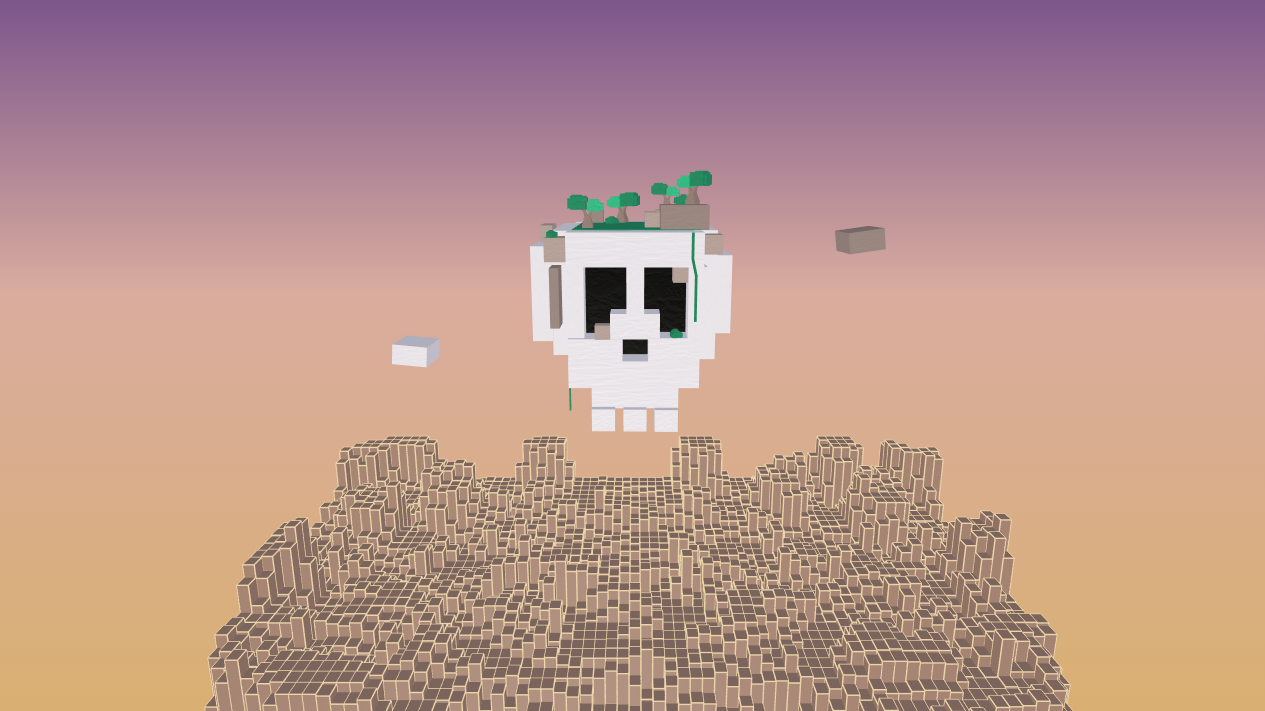
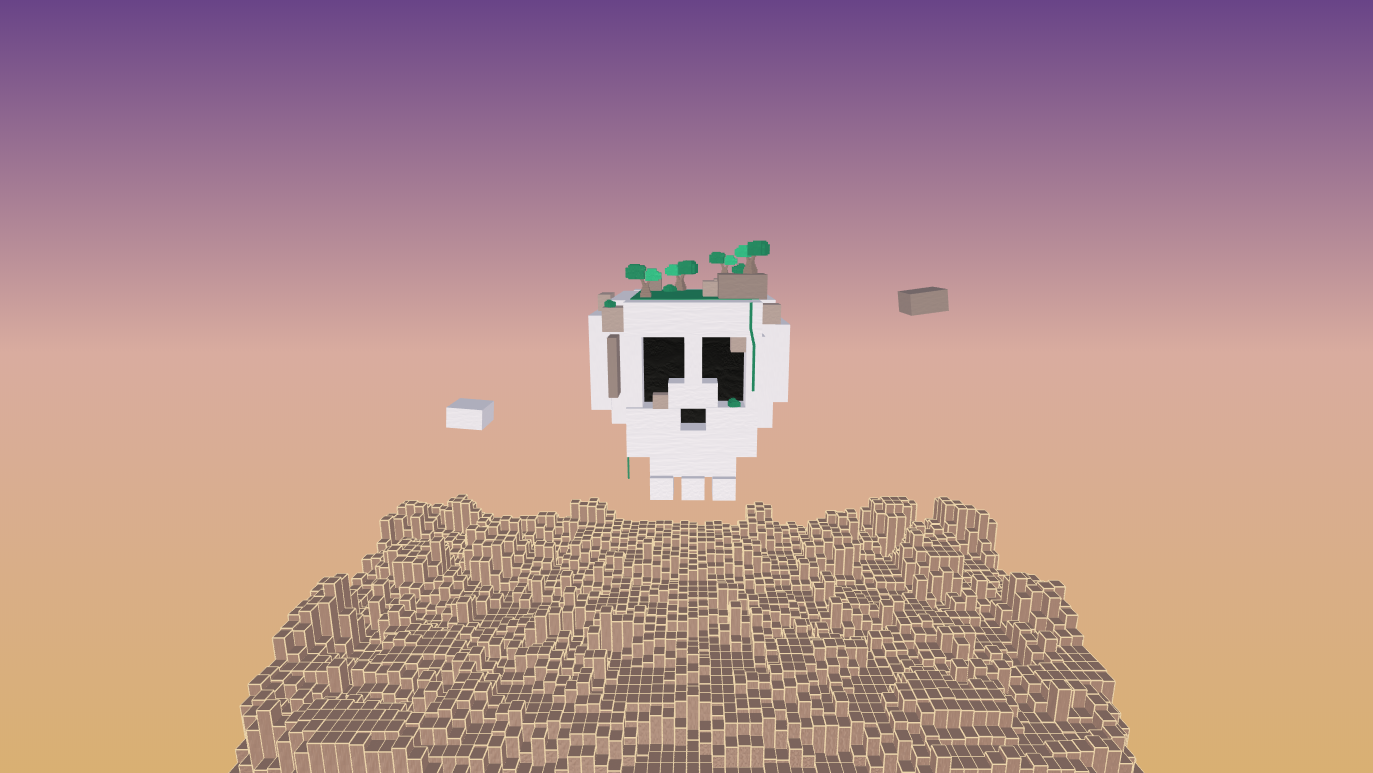
cambiata dimensione cubi e conformazione terreno; nuovo screenshot

Changed region(s): [[0.1542, 0.2475, 0.8632, 1.0], [0.6474, 0.3094, 0.7091, 0.4332], [0.3083, 0.4641, 0.37, 0.557]]

diff --git a/index.html b/index.html
@@ -198,14 +198,14 @@
 				var xImg = img.width;
 				var yImg = img.height;
 				
-				var terrain_geometry = new THREE.BoxGeometry( 1, 1, 1 );
-				var terrain_material = new THREE.MeshPhongMaterial( { color: "#80543d"} );
+				var terrain_geometry = new THREE.BoxGeometry( 1.5, 1.5, 1.5 );
+				var terrain_material = new THREE.MeshPhongMaterial( { bumpMap: island_texture, bumpScale: 0.5, color: "#80543d"} );
 				//definisco geometria e materiale anche per gli spigoli
 				var terrain_edges_geo = new THREE.EdgesGeometry( terrain_geometry ); 
 				var terrain_edges_mat = new THREE.LineBasicMaterial( { color: "#d9b071", linewidth: 2 } );
 				
 				var terrain_group = new THREE.Object3D(); //oggetto a cui aggiungerò tutti i cubi che compongono il terreno
-				terrain_group.position.set( -img.width/2, -38, -img.height-8 );
+				terrain_group.position.set( -img.width*1.5/2, -55, -img.height*1.5-24 );
 
 				scene.add( terrain_group );
 
@@ -216,9 +216,9 @@
 					for( j = 0; j < xImg; j++ ){ //scorro colonne
 
 						var terrain_cube = new THREE.Mesh( terrain_geometry, terrain_material );
-						terrain_cube.matrix.makeTranslation( j+1, data[k]/2, i ); //traslo cubo in su di data[k]/2 perché poi scalo la sua dimensione y di data[k]
+						terrain_cube.matrix.makeTranslation( j+j*0.5, data[k]/2, i+i*0.5 ); //traslo cubo in su di data[k]/2 perché poi scalo la sua dimensione y di data[k]
 						if( data[k] != 0 ){
-							var scaleM = new THREE.Matrix4().makeScale(1, data[k] ,1);
+							var scaleM = new THREE.Matrix4().makeScale( 1, data[k] ,1 );
 							terrain_cube.matrix.multiplyMatrices ( terrain_cube.matrix, scaleM ); 
 						}
 						terrain_cube.matrixAutoUpdate = false;
